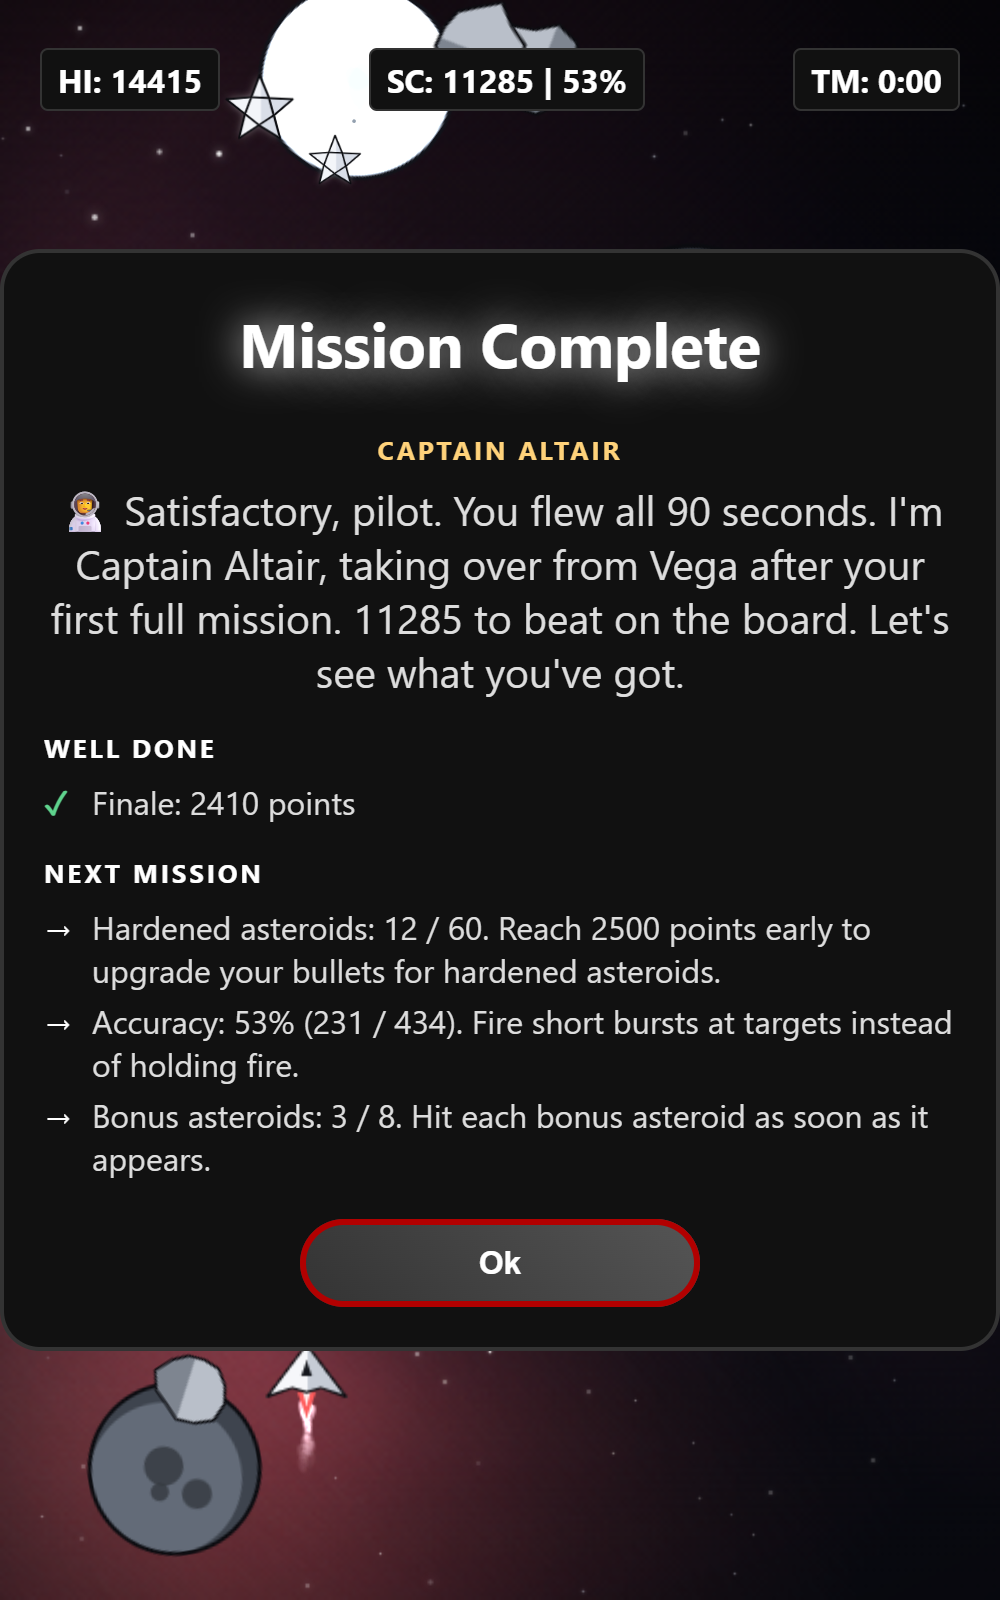
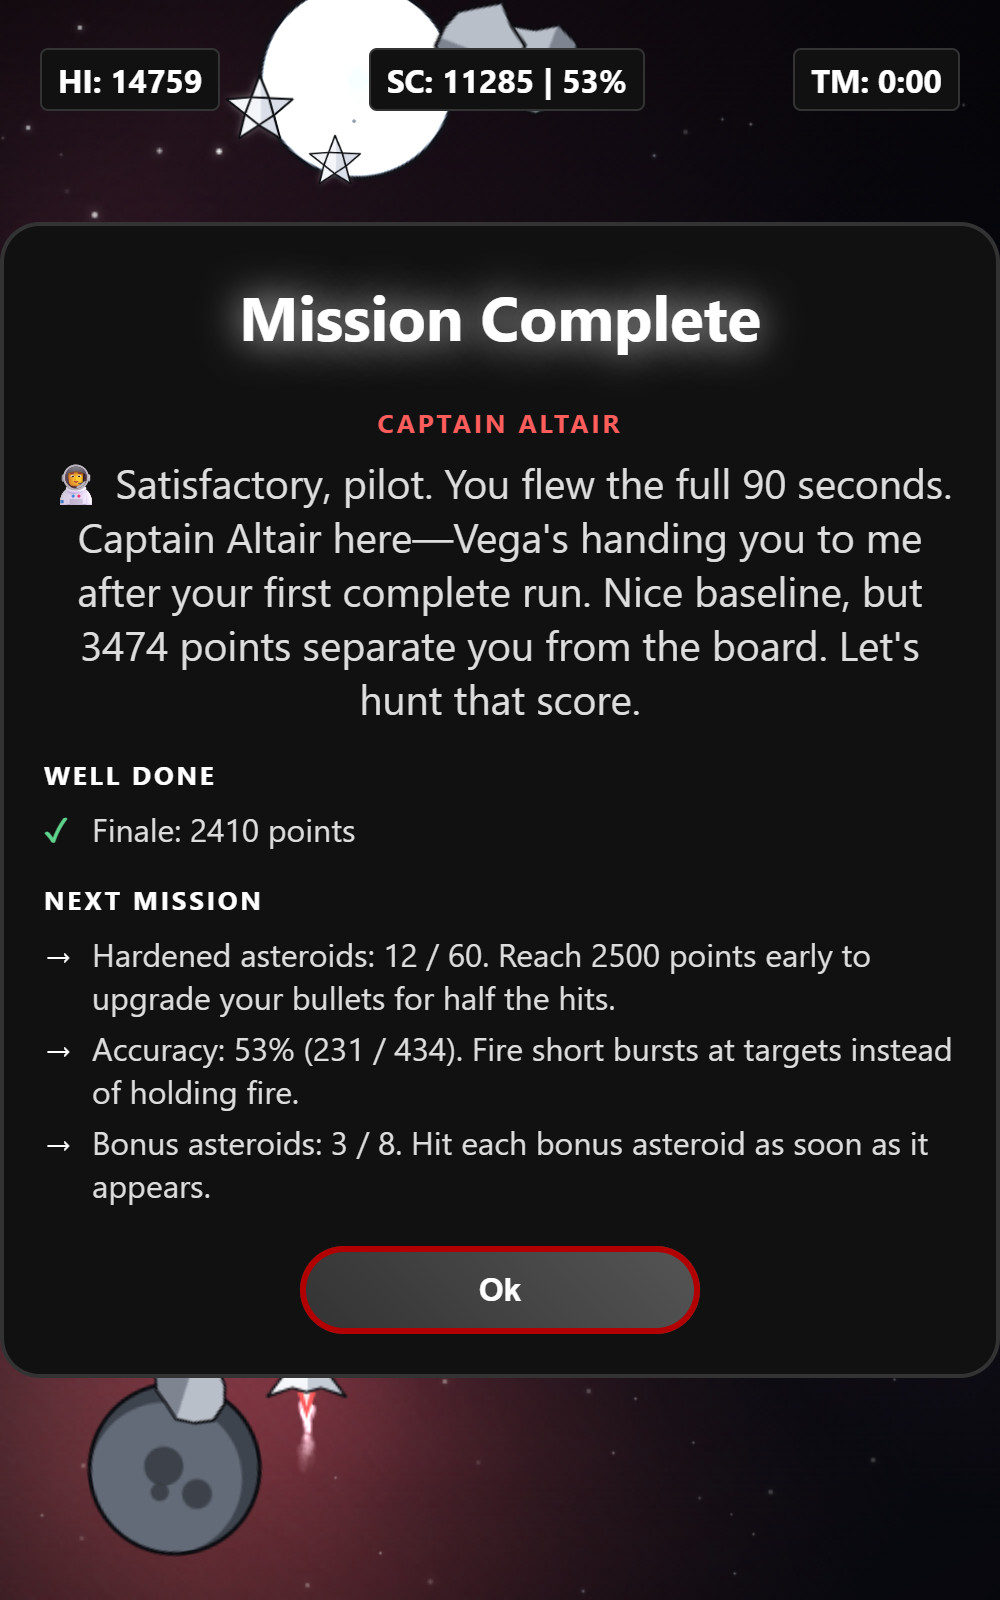
Put the commander's voice in the store video; new screenshots and video
The 4K store video now carries the debrief commander's own voice. The
recorder captures the spoken clip from the analysis response, types the
headline in sync with it and drives the voice meters from its loudness;
render-sfx renders it through the game's radio chain as a separate comms
track, and narrate.py (--comms) mixes it at voice-over level, ducks the
game under it and moves narration cues out of its way. The narration opens
with a short "Mission complete." before the transmission.

Store screenshots and the 4K frames are regenerated (Altair's debut, red
and blue names), and the About page embeds the new video.

Generated with [Devin](https://devin.ai)

diff --git a/about.html b/about.html
@@ -52,7 +52,7 @@
         <p class="instructions about-video-wrap">
           <iframe
             class="about-video"
-            src="https://www.youtube.com/embed/t1vAES4KZIw?si=7xJY_aL6eViPFHjx&list=PLJk1nicp9M5s&rel=0"
+            src="https://www.youtube.com/embed/5q7TnJbMccs?si=kjiQyQfXR_F-pPFD&list=PLJk1nicp9M5s&rel=0"
             title="YouTube video player"
             allow="
               accelerometer;

diff --git a/sw.js b/sw.js
@@ -2,7 +2,7 @@
  * Provides offline-first caching for core assets and a network-first strategy for API calls.
  * Increment CACHE_VERSION to force an update after deploys that change cached assets.
  */
-const CACHE_VERSION = "v1.0.445";
+const CACHE_VERSION = "v1.0.446";
 const STATIC_CACHE = `static-${CACHE_VERSION}`;
 const RUNTIME_CACHE = `runtime-${CACHE_VERSION}`;
 

diff --git a/store-video/narrate.py b/store-video/narrate.py
@@ -23,10 +23,15 @@ then pass `--sfx store-video/_sfx-3840x2160.wav`. The effects are set `--sfx-lu`
 below the measured loudness of the voice-over cues and ducked further by a sidechain compressor
 keyed on the narration, so the voice stays clear (>= ~10 dB over the game) while the game is
 audible between and under the cues.
+
+Commander's voice (optional): render-sfx also writes `_sfx-....-comms.wav` when the recording
+captured the AI debrief's spoken clip; pass it as `--comms`. It is mixed at the voice-over's
+loudness, ducks the game like the narration, and any cue that would overlap it starts after it.
 """
 from __future__ import annotations
 
 import argparse
+import array
 import hashlib
 import json
 import re
@@ -88,8 +93,17 @@ def loudness(audio: Path) -> float:
     return float(json.loads(err[err.rindex("{"):err.rindex("}") + 1])["input_i"])
 
 
-def mix(narration: Path, sfx: Path | None, sfx_lu: float, out: Path) -> None:
-    """Narration alone, or narration over the effects bed ducked by the narration (float WAV)."""
+def busy_span(audio: Path, threshold: float = 0.02) -> tuple[float, float] | None:
+    """First and last moment (seconds) a track rises above `threshold` of full scale."""
+    samples = array.array("h", decode(audio))
+    limit = int(threshold * 32767)
+    loud = [i for i in range(0, len(samples), 48) if abs(samples[i]) > limit]
+    return (loud[0] / RATE, loud[-1] / RATE) if loud else None
+
+
+def mix(narration: Path, sfx: Path | None, sfx_lu: float, out: Path, comms: Path | None = None) -> None:
+    """Narration alone, or narration (plus the commander's comms track, at the same loudness)
+    over the effects bed, which both duck (float WAV)."""
     if sfx is None:
         cmd = [tool("ffmpeg"), "-y", "-v", "error", "-i", str(narration),
                "-af", "aformat=channel_layouts=stereo", "-c:a", "pcm_f32le", str(out)]
@@ -97,13 +111,25 @@ def mix(narration: Path, sfx: Path | None, sfx_lu: float, out: Path) -> None:
         voice = loudness(narration)
         sfx_lufs = voice - sfx_lu
         gain = sfx_lufs - loudness(sfx)
+        stereo = "aformat=sample_rates=48000:channel_layouts=stereo"
+        if comms is None:
+            voices = f"[0:a]{stereo},asplit=2[voice][key];"
+        else:
+            comms_gain = voice - loudness(comms)
+            voices = (
+                f"[0:a]{stereo}[narr];[2:a]{stereo},volume={comms_gain:.2f}dB,apad[comms];"
+                "[narr][comms]amix=inputs=2:duration=first:normalize=0,asplit=2[voice][key];"
+            )
+            print(f"commander's voice: {comms_gain:+.1f} dB to the voice-over's {voice:.1f} LUFS",
+                  file=sys.stderr)
         graph = (
-            "[0:a]aformat=sample_rates=48000:channel_layouts=stereo,asplit=2[voice][key];"
-            f"[1:a]aformat=sample_rates=48000:channel_layouts=stereo,volume={gain:.2f}dB,apad[bed];"
-            f"[bed][key]{DUCK}[ducked];"
-            "[voice][ducked]amix=inputs=2:duration=first:normalize=0[out]"
+            voices
+            + f"[1:a]{stereo},volume={gain:.2f}dB,apad[bed];"
+            + f"[bed][key]{DUCK}[ducked];"
+            + "[voice][ducked]amix=inputs=2:duration=first:normalize=0[out]"
         )
-        cmd = [tool("ffmpeg"), "-y", "-v", "error", "-i", str(narration), "-i", str(sfx),
+        inputs = ["-i", str(narration), "-i", str(sfx)] + (["-i", str(comms)] if comms else [])
+        cmd = [tool("ffmpeg"), "-y", "-v", "error", *inputs,
                "-filter_complex", graph, "-map", "[out]", "-c:a", "pcm_f32le", str(out)]
         print(f"effects bed: {gain:+.1f} dB to {sfx_lufs:.1f} LUFS ({sfx_lu:g} LU under the "
               f"{voice:.1f} LUFS voice-over), ducked while it speaks", file=sys.stderr)
@@ -124,20 +150,31 @@ def main() -> None:
     ap.add_argument("--crf", default="14")
     ap.add_argument("--sfx", default=None, help="game sound WAV from scripts/render-sfx.cjs")
     ap.add_argument("--sfx-lu", type=float, default=10.0, help="effects bed level below the voice-over (LU)")
+    ap.add_argument("--comms", default=None,
+                    help="the debrief commander's voice WAV (render-sfx's -comms.wav); mixed at "
+                         "voice-over level, and narration cues are moved out of its way")
     args = ap.parse_args()
 
     raw, out = Path(args.raw), Path(args.out)
     spec = json.loads(Path(args.script).read_text(encoding="utf-8"))
     engine, gap, tail = spec.get("engine", "neural"), spec.get("gap", 0.35), spec.get("tail", 1.0)
     voices = spec["voices"]
+    comms = Path(args.comms) if args.comms else None
+    busy = busy_span(comms) if comms else None
+    if busy:
+        print(f"commander speaks {busy[0]:.1f}s-{busy[1]:.1f}s", file=sys.stderr)
 
     cues, cursor = [], 0.0
     for cue in spec["cues"]:
         pcm = decode(synthesize(cue["text"], voices[cue["voice"]], engine, HERE / ".polly-cache"))
         start = max(cue["at"], cursor)
-        end = start + len(pcm) / 2 / RATE
+        length = len(pcm) / 2 / RATE
+        if busy and start < busy[1] and start + length > busy[0]:
+            start = busy[1] + gap
+        end = start + length
         if start > cue["at"] + 0.05:
-            print(f"note: cue at {cue['at']:.1f}s pushed to {start:.1f}s by the previous cue", file=sys.stderr)
+            print(f"note: cue at {cue['at']:.1f}s pushed to {start:.1f}s by the previous cue or "
+                  "the commander", file=sys.stderr)
         cues.append((start, end, cue["text"], pcm))
         cursor = end + gap
 
@@ -158,7 +195,7 @@ def main() -> None:
     )
 
     mixed = out.with_suffix(".mix.wav")
-    mix(wav, Path(args.sfx) if args.sfx else None, args.sfx_lu, mixed)
+    mix(wav, Path(args.sfx) if args.sfx else None, args.sfx_lu, mixed, comms)
     gain = TARGET_LUFS - loudness(mixed)
 
     w, h = args.size.split("x")

diff --git a/AGENTS.md b/AGENTS.md
@@ -44,14 +44,20 @@ Only the 4K cut is kept (no 1080p version). With `npm run serve` running:
    (about 60 min; frame-stepped, so audio is captured as a sound-event log, not recorded). The
    post-run screens call the production analysis Lambda (a real AI debrief, never an initials
    submission). Once the debrief has arrived, the recorder replays the incoming transmission (2 s)
-   and the headline typing out (3.5 s) frame by frame in the game's own panel, so the post-run
-   timeline is fixed and its frames are logged (`[record] typing from frame …`). A fresh profile
-   flying the full mission gets Captain Altair's debut debrief. Keep the machine otherwise idle
-   (no second render or other heavy work): CPU contention can change the seeded run (seed 2024
-   then crashed at about 45 s instead of flying the full 90 s).
+   and the headline typing out frame by frame in the game's own panel; the segments' frames are
+   logged (`[record] typing from frame …`). A fresh profile flying the full mission gets Captain
+   Altair's debut debrief. Keep the machine otherwise idle (no second render or other heavy
+   work): CPU contention can change the seeded run (seed 2024 then crashed at about 45 s instead
+   of flying the full 90 s).
+   The recorder also captures the debrief's spoken clip from the AI response: the headline types
+   in sync with it, the voice meters follow it, and it is logged as the timeline's `comms` track.
 2. `node --experimental-websocket scripts/render-sfx.cjs --events=store-video/_sfx-3840x2160.json`
-3. `python store-video/narrate.py --raw store-video/_raw-3840x2160.mp4 --size 3840x2160 --out store-video/ai-horizon-3840x2160.mp4 --sfx store-video/_sfx-3840x2160.wav`
+   (writes the game sounds and, with a voice clip, `_sfx-3840x2160-comms.wav`: the commander's
+   voice through the game's radio chain).
+3. `python store-video/narrate.py --raw store-video/_raw-3840x2160.mp4 --size 3840x2160 --out store-video/ai-horizon-3840x2160.mp4 --sfx store-video/_sfx-3840x2160.wav --comms store-video/_sfx-3840x2160-comms.wav`
    (needs AWS credentials for Polly; `--sfx-lu` sets how far the game sits under the voice-over).
+   The commander's voice is mixed at narrator loudness and narration cues that would overlap it
+   start after it, so the video's length follows the clip.
 
 Frames are piped to ffmpeg (no temp PNGs). The MP4 exceeds GitHub's 100 MB file limit, so it is
 gitignored (its `.srt` is committed); upload it to YouTube instead. Narration cue times in
@@ -64,9 +70,9 @@ the frames from game over on), skip step 2 (the sound timeline is unchanged), ru
 `--raw` pointing at the new file, then move it over the old raw for next time. This only works
 when the game-over dialog's first frame and the sounds are unchanged (the splice checks that frame
 against the old video); otherwise do the full render. The 4K landscape screenshots
-(`store-screenshots/3840x2160`) are frames of the raw video: `4-gameover.png` is frame 6150 (the
-held debrief) and `5-leaderboard.png` frame 6450 (extract with
-`-vf "select=eq(n\,6150)" -frames:v 1 -pix_fmt rgb24`: 24-bit, no alpha).
+(`store-screenshots/3840x2160`) are frames of the raw video: `4-gameover.png` is frame 6720 (the
+held debrief) and `5-leaderboard.png` frame 7030 (extract with
+`-vf "select=eq(n\,6720)" -frames:v 1 -pix_fmt rgb24`: 24-bit, no alpha).
 
 ## Testing against production
 
